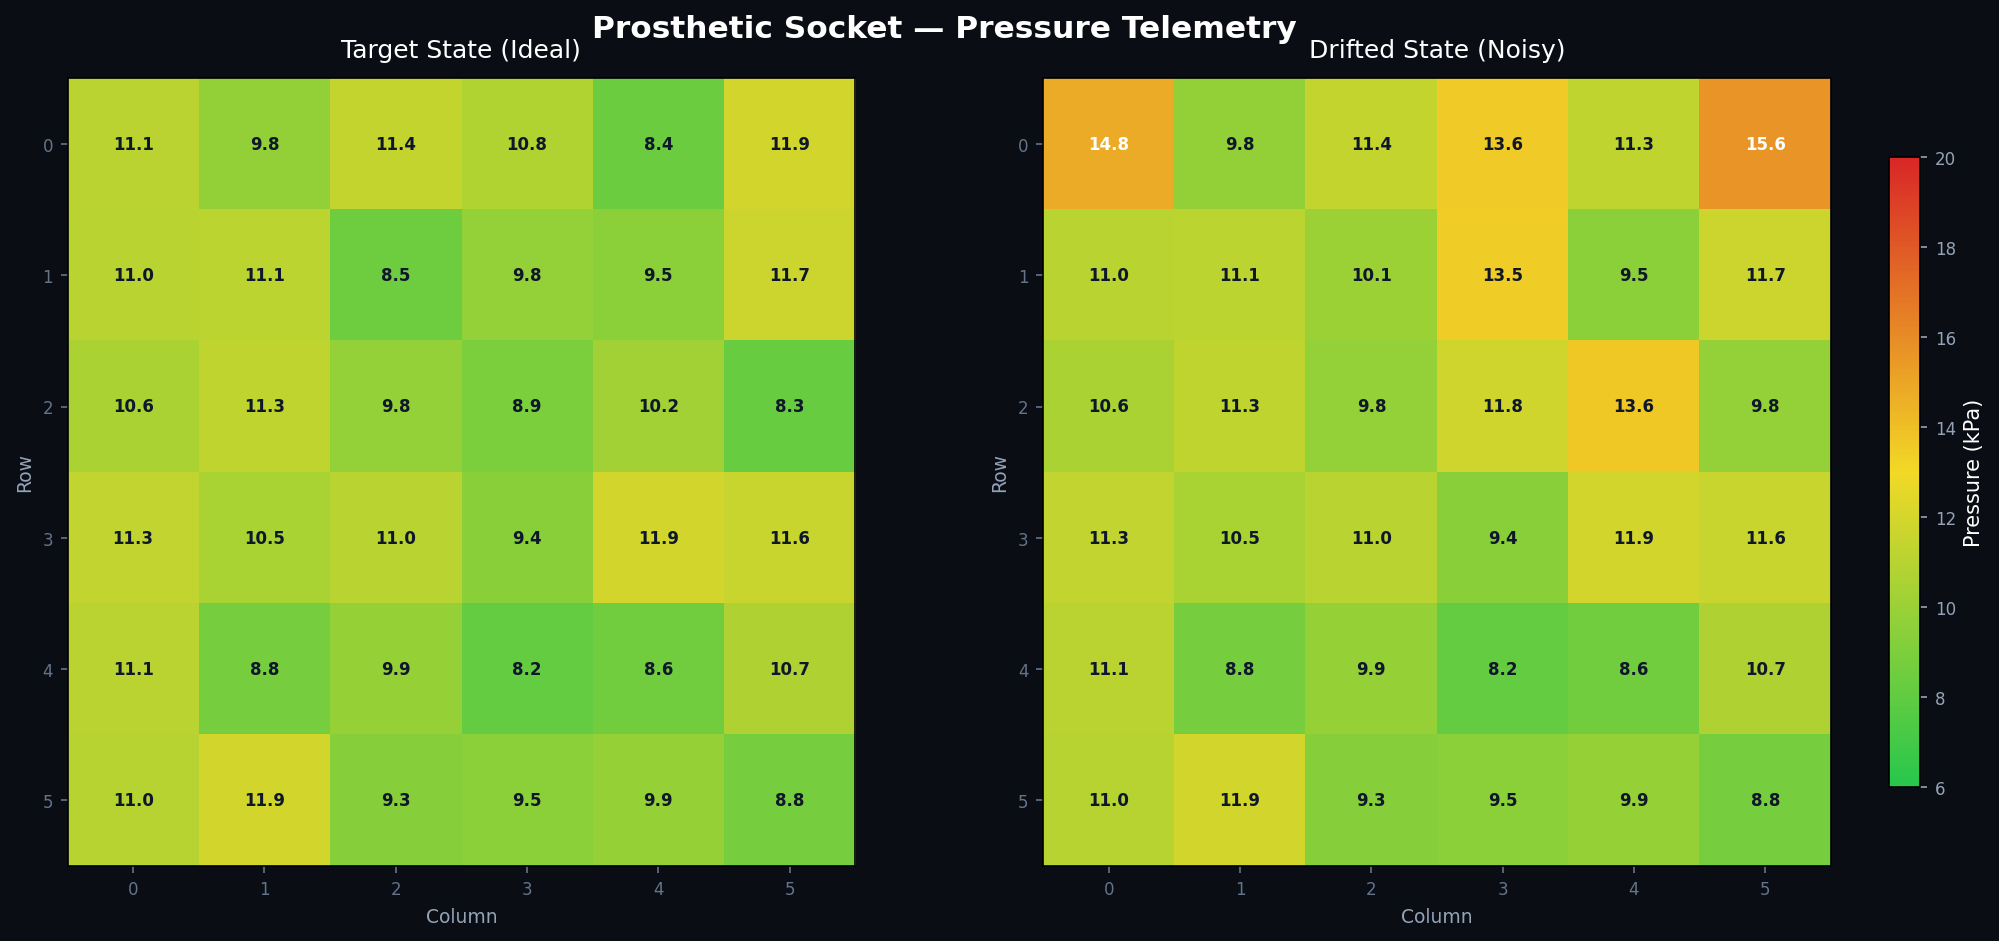
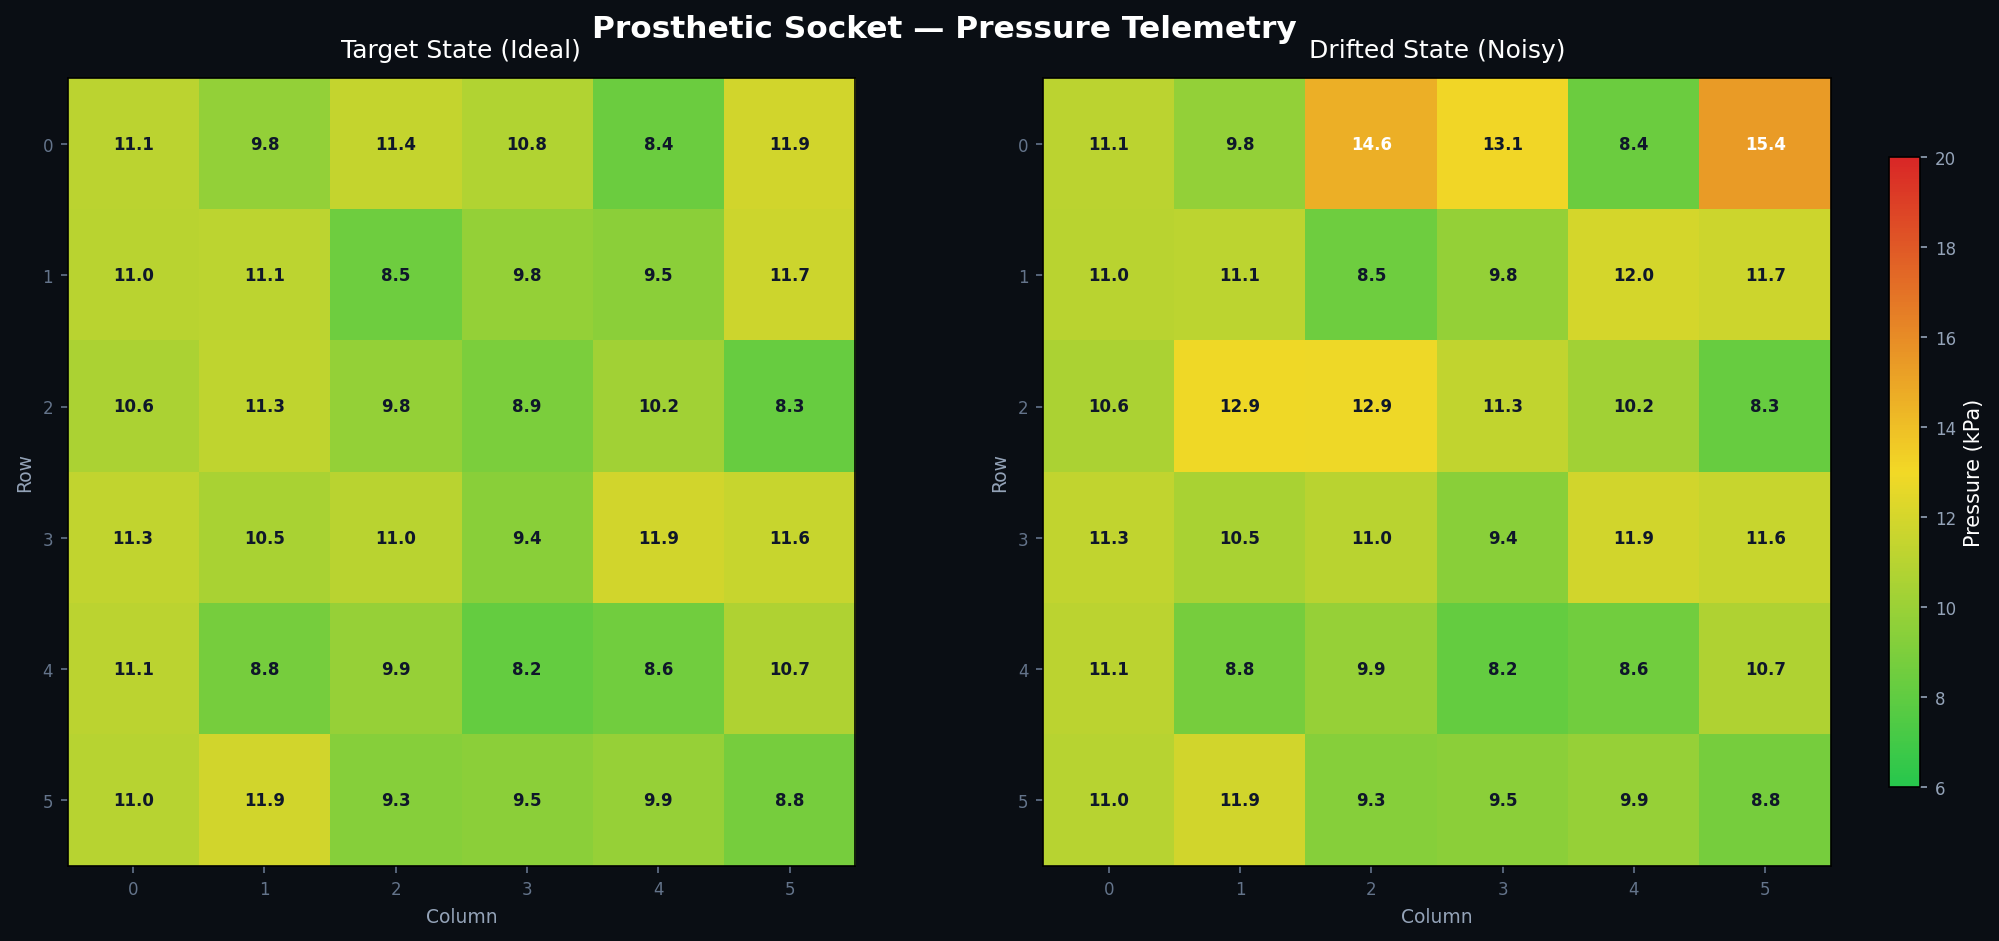
ggg

Changed region(s): [[0.5893, 0.0616, 0.9305, 0.5239], [0.4962, 0.0616, 0.5893, 0.2465]]

diff --git a/axiom-q/src/components/ProstheticPot/ProstheticPot.jsx b/axiom-q/src/components/ProstheticPot/ProstheticPot.jsx
@@ -62,9 +62,9 @@ export default function ProstheticPot() {
   return (
     <div className="flex flex-col items-center gap-2 select-none">
       <div className="flex items-center gap-1.5 text-[9px] font-mono text-slate-400 uppercase tracking-widest">
-        <Sliders size={11} className="text-neon-cyan" />
+        <Sliders size={11} className="text-slate-400" />
         <span>Limb-Shift</span>
-        <span className="text-neon-cyan font-bold">{fillPct}%</span>
+        <span className="text-slate-300 font-bold">{fillPct}%</span>
      </div>
 
       <div className="relative flex items-end gap-3 h-[260px]">
@@ -83,22 +83,22 @@ export default function ProstheticPot() {
             style={{
               height: `${value * 100}%`,
               background: aboveThreshold
-                ? "linear-gradient(to top, rgba(245,158,11,0.30), rgba(0,240,255,0.10))"
-                : "linear-gradient(to top, rgba(0,255,65,0.30), rgba(0,240,255,0.10))",
+                ? "linear-gradient(to top, rgba(176,168,160,0.20), rgba(184,197,209,0.08))"
+                : "linear-gradient(to top, rgba(176,184,168,0.20), rgba(184,197,209,0.08))",
               borderTop: aboveThreshold
-                ? "1px solid #f59e0b"
-                : "1px solid rgba(0,240,255,0.6)",
+                ? "1px solid #b0a8a0"
+                : "1px solid rgba(176,168,192,0.6)",
             }}
           />
 
           {/* Threshold line (server-side fire) */}
           <div
-            className="absolute inset-x-0 h-px bg-amber-400/80 pointer-events-none"
+            className="absolute inset-x-0 h-px bg-[rgba(176,168,192,0.30)] pointer-events-none"
             style={{ bottom: `${threshold * 100}%` }}
           >
             <span
               className="absolute -right-[2px] -translate-x-full -top-2
-                         text-[8px] font-mono text-amber-300 tracking-wider whitespace-nowrap"
+                         text-[8px] font-mono text-slate-400 tracking-wider whitespace-nowrap"
             >
               FIRE {thresholdPct}%
            </span>
@@ -116,13 +116,13 @@ export default function ProstheticPot() {
           {/* Handle */}
           <div
             className="absolute inset-x-[-6px] h-[3px] pointer-events-none
-                       bg-neon-cyan shadow-[0_0_10px_rgba(0,240,255,0.85)]"
+                       bg-neon-cyan shadow-[0_0_10px_rgba(176,168,192,0.85)]"
             style={{
               bottom: `calc(${value * 100}% - 1.5px)`,
-              background: aboveThreshold ? "#f59e0b" : "#00f0ff",
+              background: aboveThreshold ? "#b0a8a0" : "#b0b8c0",
               boxShadow: aboveThreshold
                 ? "0 0 12px rgba(245,158,11,0.80)"
-                : "0 0 12px rgba(0,240,255,0.85)",
+                : "0 0 12px rgba(176,168,192,0.85)",
             }}
           />
 
@@ -144,8 +144,8 @@ export default function ProstheticPot() {
       <button
         onClick={resetProstheticCycle}
         className="flex items-center gap-1.5 px-2 py-1 rounded-sm text-[9px] font-mono
-                   text-slate-400 hover:text-neon-cyan border border-[rgba(255,255,255,0.08)]
-                   hover:border-[rgba(0,240,255,0.30)] transition-all duration-150"
+                   text-slate-400 hover:text-slate-300 border border-[rgba(255,255,255,0.08)]
+                   hover:border-[rgba(176,168,192,0.30)] transition-all duration-150"
         title="Send reset to backend so a new cycle can be fired by another drag."
       >
         <RotateCcw size={10} />

diff --git a/axiom-q/src/components/ProstheticMesh/ProstheticMesh.jsx b/axiom-q/src/components/ProstheticMesh/ProstheticMesh.jsx
@@ -2,16 +2,16 @@ import { useEffect, useRef } from "react";
 import * as THREE from "three";
 import useQuantumStore from "../../store/useQuantumStore";
 
-/* ── Color ramp: green (rest) → cyan → yellow → orange → red (heavy drift) ─── */
+/* ── Color ramp: cool grey (rest) → warm grey (heavy drift) ─── */
 function kpaToColor(kpa) {
   // Stop points tuned to backend heatmap ranges (8..30 kPa).
   const stops = [
-    { k: 8.0,  c: [0.00, 1.00, 0.25] },  // NEON_GREEN
-    { k: 11.0, c: [0.30, 0.95, 0.95] },  // cyan/teal
-    { k: 14.0, c: [0.95, 0.85, 0.20] },  // yellow
-    { k: 18.0, c: [0.95, 0.55, 0.10] },  // orange
-    { k: 24.0, c: [1.00, 0.18, 0.18] },  // red
-    { k: 30.0, c: [0.85, 0.05, 0.65] },  // magenta (peak / compartment)
+    { k: 8.0,  c: [0.85, 0.87, 0.90] },  // light blue-grey
+    { k: 11.0, c: [0.77, 0.80, 0.83] },  // soft blue-grey
+    { k: 14.0, c: [0.72, 0.75, 0.78] },  // mid cool grey
+    { k: 18.0, c: [0.78, 0.75, 0.72] },  // mid warm grey
+    { k: 24.0, c: [0.82, 0.73, 0.70] },  // blush-grey
+    { k: 30.0, c: [0.78, 0.70, 0.75] },  // dusty mauve-grey
   ];
   const x = Math.max(8.0, Math.min(30.0, kpa));
   for (let i = 0; i < stops.length - 1; i++) {
@@ -30,7 +30,7 @@ function kpaToColor(kpa) {
 }
 
 const ZONE_LABELS = ["proximal", "mid", "distal"];
-const ZONE_TINTS = [0xa855f7, 0x00f0ff, 0x39ff14];
+const ZONE_TINTS = [0xb8b0c0, 0xb0b8c0, 0xb8c0b0];
 
 /**
  * 36-cell Three.js prosthetic mesh.
@@ -66,7 +66,7 @@ export default function ProstheticMesh() {
     // Limb-socket backdrop (dome under the cell grid)
     const baseGeo = new THREE.CylinderGeometry(3.2, 3.2, 0.4, 64);
     const baseMat = new THREE.MeshBasicMaterial({
-      color: 0x0a0e14,
+      color: 0x181820,
       transparent: true,
       opacity: 0.85,
     });
@@ -77,7 +77,7 @@ export default function ProstheticMesh() {
     // Ring outline for visual anchoring
     const ringGeo = new THREE.RingGeometry(3.0, 3.25, 64);
     const ringMat = new THREE.MeshBasicMaterial({
-      color: 0x00f0ff,
+      color: 0xb0b8c4,
       transparent: true,
       opacity: 0.30,
       side: THREE.DoubleSide,

diff --git a/axiom-q/src/index.css b/axiom-q/src/index.css
@@ -7,10 +7,10 @@
   --color-quantum-800: #1e293b;
   --color-quantum-700: #334155;
 
-  --color-neon-green: #39ff14;
-  --color-neon-cyan: #00f0ff;
-  --color-neon-purple: #a855f7;
-  --color-neon-amber: #f59e0b;
+  --color-neon-green: #a5b0a0;
+  --color-neon-cyan: #b8c5d1;
+  --color-neon-purple: #b0a8c0;
+  --color-neon-amber: #c0b0a0;
 
   --color-surface-card: #0f172a;
   --color-surface-elevated: #1e293b;
@@ -32,23 +32,23 @@ body,
 /* ── Neon Glow Utilities ── */
 .glow-green {
   box-shadow:
-    0 0 6px rgba(57, 255, 20, 0.4),
-    0 0 20px rgba(57, 255, 20, 0.15);
+    0 0 6px rgba(165, 176, 160, 0.4),
+    0 0 20px rgba(165, 176, 160, 0.15);
 }
 .glow-cyan {
   box-shadow:
-    0 0 6px rgba(0, 240, 255, 0.4),
-    0 0 20px rgba(0, 240, 255, 0.15);
+    0 0 6px rgba(184, 197, 209, 0.4),
+    0 0 20px rgba(184, 197, 209, 0.15);
 }
 .glow-purple {
   box-shadow:
-    0 0 6px rgba(168, 85, 247, 0.4),
-    0 0 20px rgba(168, 85, 247, 0.15);
+    0 0 6px rgba(176, 168, 192, 0.4),
+    0 0 20px rgba(176, 168, 192, 0.15);
 }
 .glow-amber {
   box-shadow:
-    0 0 6px rgba(245, 158, 11, 0.4),
-    0 0 20px rgba(245, 158, 11, 0.15);
+    0 0 6px rgba(192, 176, 160, 0.4),
+    0 0 20px rgba(192, 176, 160, 0.15);
 }
 
 /* ── Pulse animation for calibration trigger ── */
@@ -56,15 +56,15 @@ body,
   0%,
   100% {
     box-shadow:
-      0 0 8px rgba(0, 240, 255, 0.5),
-      0 0 24px rgba(0, 240, 255, 0.2),
-      inset 0 0 8px rgba(0, 240, 255, 0.05);
+      0 0 8px rgba(184, 197, 209, 0.5),
+      0 0 24px rgba(184, 197, 209, 0.2),
+      inset 0 0 8px rgba(184, 197, 209, 0.05);
   }
   50% {
     box-shadow:
-      0 0 16px rgba(0, 240, 255, 0.7),
-      0 0 48px rgba(0, 240, 255, 0.35),
-      inset 0 0 12px rgba(0, 240, 255, 0.1);
+      0 0 16px rgba(184, 197, 209, 0.7),
+      0 0 48px rgba(184, 197, 209, 0.35),
+      inset 0 0 12px rgba(184, 197, 209, 0.1);
   }
 }
 .animate-pulse-glow {

diff --git a/axiom-q/src/components/HardwarePanel/HardwarePanel.jsx b/axiom-q/src/components/HardwarePanel/HardwarePanel.jsx
@@ -97,12 +97,12 @@ function NoiseSlider({ icon: Icon, label, value, onChange, disabled }) {
           <Icon size={13} className="text-slate-500" />
           {label}
        </span>
-        <span className="font-mono text-[#00f0ff]">{value.toFixed(2)}</span>
+        <span className="font-mono text-[#b8c5d1]">{value.toFixed(2)}</span>
      </div>
       <div className="relative h-3 flex items-center">
         <div className="absolute w-full h-[2px] bg-[rgba(255,255,255,0.08)] rounded-full pointer-events-none" />
         <div
-          className="absolute h-[2px] bg-[#00f0ff] rounded-full pointer-events-none"
+          className="absolute h-[2px] bg-[#b8c5d1] rounded-full pointer-events-none"
           style={{ width: `${value * 100}%` }}
         />
         <input
